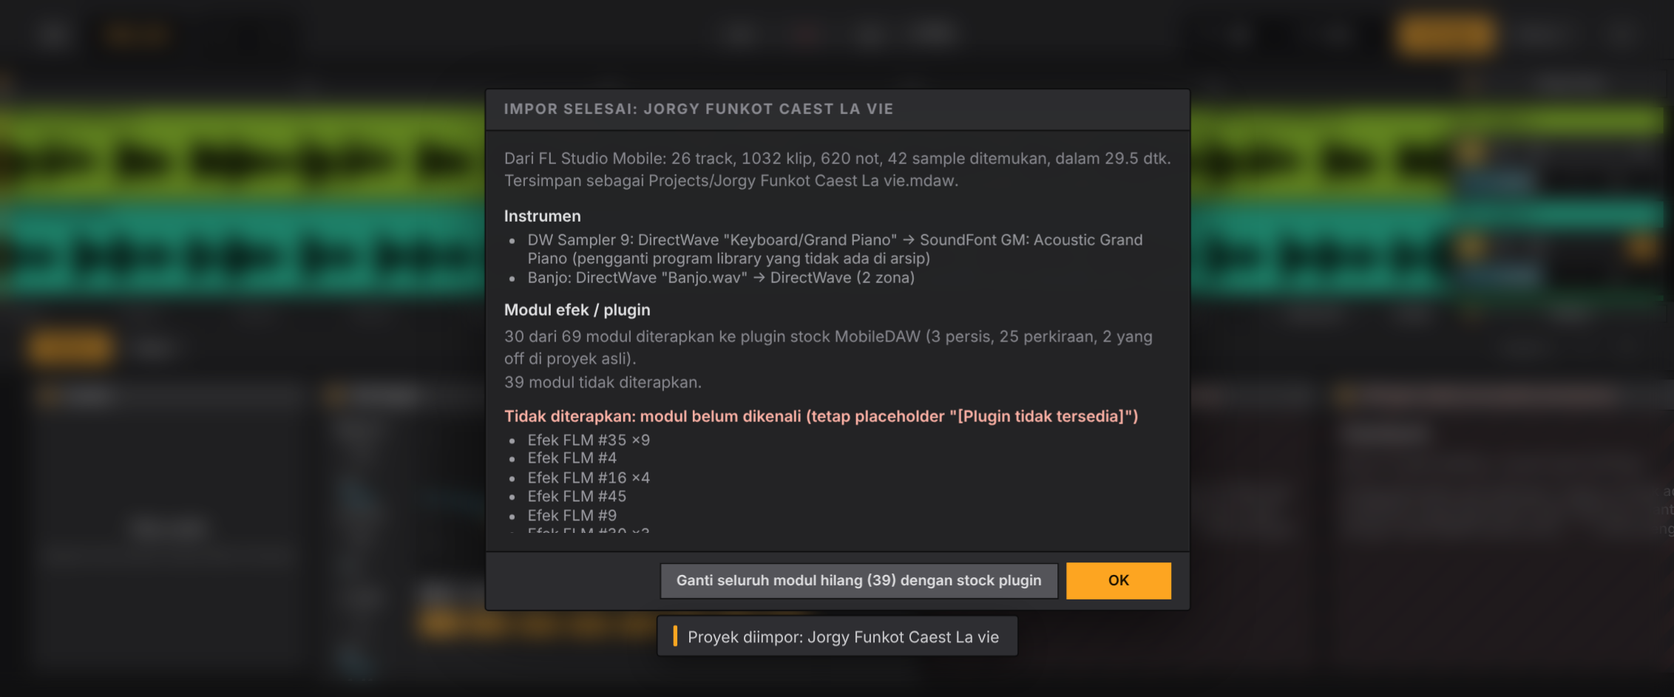
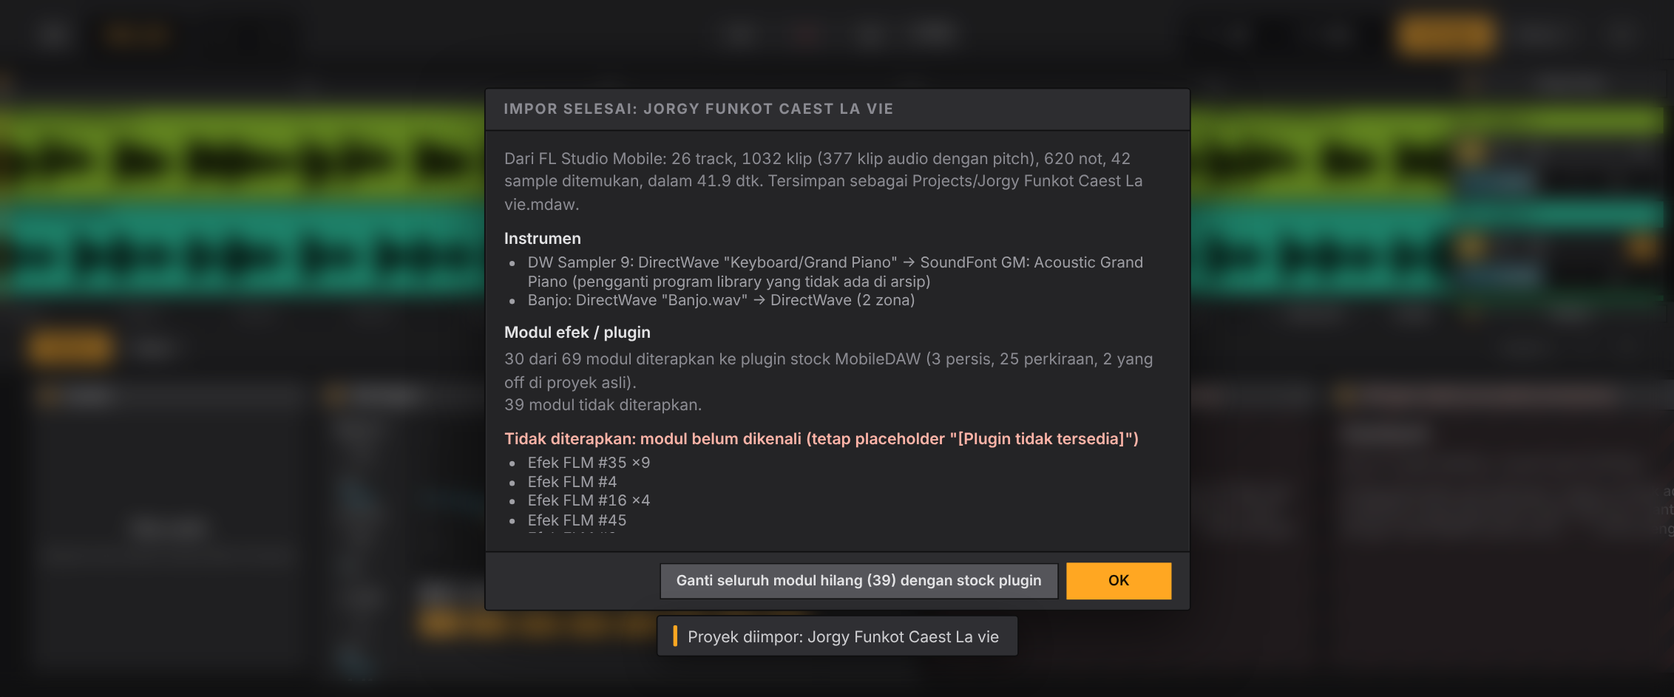
FLM import: clips never resized fill their cycle, audio clip pitch, pad pitch / envelope, module mix
- CLHd length 0 (duplicated / linked clips) = one cycle long: the 74 "BASS LOUD FUNKYTONE" clips of Audio 7
  in the owner's project now fill 2 bars each instead of almost nothing (82 such clips in the project).
- Audio clip pitch: STR1 semitones (= STRC pitch ratio / knob 0.5 + st/48) while stretching -> warp pitch;
  stretch off -> PRMS[2] pitch knob = resample (warp mode repitch). 377 pitched + 48 repitched clips.
- Drum pads: pitch with cents and the pad envelope (A / D / S / R).
- Module SMPR = pan / level (mix): Dry/Wet of the converted stock plugin, blended gain for Utility / EQ
  Eight; DirectWave layers get their level / pan per zone (new zone gain / pan in the FLM DirectWave engine,
  editable in the zone editor).
- FLM note / DirectWave root numbering is MIDI - 12 (Banjo.wav unity note 60 stored as 48, measured C4):
  roots and pattern notes +12.
- Tests: import-test (synthetic STR1 / repitch / length 0 / pads / mix), import-ui-test checks Audio 7
  and saves docs/redesign/56-import-flm-arrangement.png. Docs: IMPORT.md.

Claude-Session: https://claude.ai/code/session_016R99TjSh2G5U2VqVgMNHhT

Changed region(s): [[0.2783, 0.2153, 0.7111, 0.7688], [0.5256, 0.8918, 0.5875, 0.9226], [0.4329, 0.8918, 0.4947, 0.9226]]

diff --git a/js/import/flm.js b/js/import/flm.js
@@ -7,10 +7,16 @@
 //     TRKH (one per sub-track): DESc = i32 kind (0 notes, 1 automation, 2 audio, 3 drums), i32 module id, i32 param, ..., name[...] (+0x1c)
 //       CLIP = u32 position (128 ticks / beat) + "20LC" + CLHd (f64 length, f64 loop/cycle length, f64 offset, i32 id, f64 source length, u8 flags)
 //              EVN2 = u16 record size (20) + records: u32 time (128/beat), f64 length (beats), u16 pitch, u16 pan, u16 velocity, u16 flags
-//              CLSm (audio) = PTH1 (u16 len + "@L@\0" + path relative to the FLM user folder), STRC (u8, f64 stretch ratio, ...), PRMS (f32 gain, pan, ...)
+//              CLSm (audio) = PTH1 (u16 len + "@L@\0" + path relative to the FLM user folder), STRC (u8 stretch on, f64 time ratio, f64 pitch ratio,
+//              f32 pitch knob = 0.5 + semitones / 48, f32), STR1 (u8 on, f64 time ratio, f64 pitch in semitones), PRMS (f32 gain, pan, pitch knob used
+//              when stretching is off = resampled, ..., attack / decay / sustain / release at [6..9]). A clip with length 0 has never been resized:
+//              its length is its cycle length (FLM duplicates / linked clips, LINk).
+//           MODULE SMPR = f32 pan, level / mix (1 = full), f32. DirectWave ZONE root is stored 12 below MIDI (a WAV with unity note 60 -> 48), so are
+//              the note pitches of EVN2: both are shifted +12 (relative pitch unchanged; absolute pitch right for synths / General MIDI).
 //     RACK: RPRM (f32 volume, f32 pan 0..1, ...), RMOd modules in signal order (prefix i32 type, u32 instance id; HEAD, DESC names, PRST preset
 //           path, PRMS f32 params with [0] = enabled, CSTM: ZONE / PATh = DirectWave sample), RSMP = Drums sampler: SMPl per pad (PTH1, PRMS)
 import { FLM_TYPES } from './fxmap.js';
+const NOTE_OFS = 12;                                                               // FLM note / root numbering = MIDI - 12
 const TD = typeof TextDecoder !== 'undefined' ? new TextDecoder('utf-8') : null;
 const isTag = (u, p) => { for (let k = 0; k < 4; k++) { const c = u[p + k]; if (!((c >= 48 && c <= 57) || (c >= 65 && c <= 90) || (c >= 97 && c <= 122) || c === 95)) return false; } return true; };
 
@@ -50,14 +56,15 @@ export function parseFlm(buf, onProgress) {
     const rp = one(ks, 'RPRM'); if (rp && rp.n >= 8) { out.vol = f32(rp.a); out.pan = f32(rp.a + 4); }
     for (const m of ks.filter((x) => x.tag === 'RMOd')) {
       const mk = kids(m), type = i32(m.a), id = u32(m.a + 4);
-      const prst = one(mk, 'PRST'), prms = one(mk, 'PRMS'), desc = one(mk, 'DESC'), cstm = one(mk, 'CSTM');
+      const prst = one(mk, 'PRST'), prms = one(mk, 'PRMS'), desc = one(mk, 'DESC'), cstm = one(mk, 'CSTM'), smpr = one(mk, 'SMPR');
       const pr = prst && prst.n > 8 ? str(prst.a + 4, Math.min(prst.n - 4, u32(prst.a))) : '';
       const params = []; if (prms) for (let k = 0; k + 4 <= prms.n; k += 4) params.push(f32(prms.a + k));
       const names = desc ? [str(desc.a, 256), str(desc.a + 0x100, 256)].filter(Boolean) : [];
       const folder = /Effect Presets\/([^/]+)\//.exec(pr); if (folder && !KNOWN[type]) presetName[type] = folder[1].replace(/\d+$/, '');
       const mod = { type, id, params, enabled: !(params.length && params[0] < 0.5), preset: pr.replace(/^.*\//, '').replace(/\.(flmpst|dwp)$/i, ''), presetPath: pr, names };
+      if (smpr && smpr.n >= 12) { mod.pan = f32(smpr.a) * 2 - 1; mod.level = f32(smpr.a + 4); }   // module pan / level (mix)
       if (cstm) for (const z of kids(cstm)) {                 // DirectWave: the sample of its zone (user folder) or a library program (built-in content)
-        if (z.tag === 'ZONE') { mod.sample = clean(raw(z.a, Math.min(z.n, 1024))); if (z.n > 1028) mod.root = u[z.a + 1024]; }   // path[1024], then the zone's root key (MIDI)
+        if (z.tag === 'ZONE') { mod.sample = clean(raw(z.a, Math.min(z.n, 1024))); if (z.n > 1028) mod.root = Math.min(127, u[z.a + 1024] + NOTE_OFS); }   // path[1024], then the zone's root key (MIDI)
         if (z.tag === 'PATh') mod.library = clean(raw(z.a + 4, Math.min(z.n - 4, u32(z.a))));
       }
       if (type === 1 && !mod.sample && !mod.library && names.length > 1 && /\.(wav|mp3|ogg|flac|m4a|aif+)$/i.test(names[names.length - 1])) mod.sample = names[names.length - 1];
@@ -75,6 +82,7 @@ export function parseFlm(buf, onProgress) {
     const pos = u32(c.a), ck = kids(c), h = one(ck, 'CLHd');
     if (!h || h.n < 36) return null;
     const clip = { pos: pos / 128, len: f64(h.a), cycle: f64(h.a + 8), offset: f64(h.a + 16), id: i32(h.a + 24), srcLen: f64(h.a + 28), muted: h.n > 36 && u[h.a + 36] === 1, events: [] };
+    if (!(clip.len > 0)) { clip.len = clip.cycle > 0 ? clip.cycle : clip.srcLen > 0 ? clip.srcLen : 4; clip.lenFromCycle = true; }   // never resized: one cycle long
     const e = one(ck, 'EVN2');
     if (e && e.n >= 2) { const rs = u16(e.a); if (rs >= 20) for (let p = e.a + 2; p + rs <= e.a + e.n; p += rs) clip.events.push({ t: u32(p) / 128, len: f64(p + 4), pitch: u16(p + 12), pan: u16(p + 14), vel: u16(p + 16), flags: u16(p + 18) }); }
     const sm = one(ck, 'CLSm');
@@ -82,8 +90,10 @@ export function parseFlm(buf, onProgress) {
       const sk = kids(sm), stc = one(sk, 'STRC'), pm = one(sk, 'PRMS'), main = one(sk, 'MAIN');
       clip.sample = path1(one(sk, 'PTH1'));
       clip.name = main ? str(main.a + 12, 256) : '';
-      if (stc && stc.n >= 9) { clip.stretchOn = u[stc.a] === 1; clip.stretch = f64(stc.a + 1); }
-      if (pm && pm.n >= 8) { clip.gain = f32(pm.a); clip.pan = f32(pm.a + 4); clip.params = []; for (let k = 0; k + 4 <= pm.n; k += 4) clip.params.push(f32(pm.a + k)); }
+      const s1 = one(sk, 'STR1');
+      if (stc && stc.n >= 9) { clip.stretchOn = u[stc.a] === 1; clip.stretch = f64(stc.a + 1); if (stc.n >= 17 && clip.stretchOn) clip.pitch = 12 * Math.log2(Math.max(1e-6, f64(stc.a + 9))); }
+      if (s1 && s1.n >= 17 && u[s1.a] === 1) clip.pitch = f64(s1.a + 9);              // semitones while stretching (time and pitch independent)
+      if (pm && pm.n >= 8) { clip.gain = f32(pm.a); clip.pan = f32(pm.a + 4); clip.params = []; for (let k = 0; k + 4 <= pm.n; k += 4) clip.params.push(f32(pm.a + k)); if (!clip.stretchOn && pm.n >= 12) clip.repitch = (f32(pm.a + 8) - 0.5) * 48; }   // stretch off: the pitch knob resamples
     }
     return clip;
   };
@@ -131,13 +141,13 @@ export function flmToModel(P) {
     const dw = ch.modules.filter((m) => m.type === 1), syn = dw.length ? null : ch.modules.find((m) => synthOf(m));
     const instMods = new Set(dw.length ? dw : syn ? [syn] : []);
     const c = { kind: ch.kind, name: ch.name, hue: hue(ch.hue), gain: ch.vol / LVL0, pan: ch.pan * 2 - 1, tracks: [], pads: [],
-      modules: ch.modules.filter((m) => !instMods.has(m)).map((m) => ({ name: m.name, enabled: m.enabled, preset: m.preset && m.preset !== 'Default' ? m.preset : '', params: m.params, id: m.id, flmType: m.type, ...(FLM_TYPES[m.type] && FLM_TYPES[m.type].sure === false ? { sure: false } : {}), app: 'FL Studio Mobile' })) };
+      modules: ch.modules.filter((m) => !instMods.has(m)).map((m) => ({ name: m.name, enabled: m.enabled, ...(m.level != null && m.level < 0.999 ? { mix: m.level } : {}), preset: m.preset && m.preset !== 'Default' ? m.preset : '', params: m.params, id: m.id, flmType: m.type, ...(FLM_TYPES[m.type] && FLM_TYPES[m.type].sure === false ? { sure: false } : {}), app: 'FL Studio Mobile' })) };
     if (dw.length) {
       const lib = dw.find((m) => m.library);
-      c.instrument = { kind: 'directwave', name: 'DirectWave', layers: dw.filter((m) => m.enabled && m.sample).map((m) => ({ sample: m.sample, root: m.root ?? 60, params: m.params })), library: lib ? lib.library : '', preset: dw[0].preset, enabled: dw.some((m) => m.enabled) };
-      if (!c.instrument.layers.length && !c.instrument.library && dw[0].sample) c.instrument.layers.push({ sample: dw[0].sample, root: dw[0].root ?? 60 });
+      c.instrument = { kind: 'directwave', name: 'DirectWave', layers: dw.filter((m) => m.enabled && m.sample).map((m) => ({ sample: m.sample, root: m.root ?? 60, params: m.params, level: m.level ?? 1, pan: m.pan || 0 })), library: lib ? lib.library : '', preset: dw[0].preset, enabled: dw.some((m) => m.enabled) };
+      if (!c.instrument.layers.length && !c.instrument.library && dw[0].sample) c.instrument.layers.push({ sample: dw[0].sample, root: dw[0].root ?? 60, params: dw[0].params, level: dw[0].level ?? 1, pan: dw[0].pan || 0 });
     } else if (syn) { const k = synthOf(syn); c.instrument = { kind: k.kind, name: k.name, preset: syn.preset && syn.preset !== 'Default' ? syn.preset : '', params: syn.params, enabled: syn.enabled, flmType: syn.type }; }
-    c.pads = ch.pads.map((q, k) => ({ path: q.path, name: (q.path.split('/').pop() || 'Pad ' + (k + 1)).replace(/\.[^.]+$/, ''), gain: q.vol / LVL0, pan: q.pan * 2 - 1, pitch: Math.round((q.pitch - 0.5) * 48) }));
+    c.pads = ch.pads.map((q, k) => ({ path: q.path, name: (q.path.split('/').pop() || 'Pad ' + (k + 1)).replace(/\.[^.]+$/, ''), gain: q.vol / LVL0, pan: q.pan * 2 - 1, pitch: Math.round((q.pitch - 0.5) * 48 * 1000) / 1000, env: q.params.length >= 10 ? { a: q.params[6], d: q.params[7], s: q.params[8], r: q.params[9] } : null }));   // pitch 0.5 + st / 48 (cents kept)
     for (const t of ch.tracks) {
       if (!t.clips.length && t.kind === 'automation') continue;               // empty automation slots
       const tr = { kind: t.kind, label: t.label, clips: [] };
@@ -147,9 +157,9 @@ export function flmToModel(P) {
       }
       for (const x of t.clips) {
         const cl = { pos: x.pos, len: x.len, cycle: x.cycle, offset: x.offset, srcLen: x.srcLen, muted: x.muted };
-        if (t.kind === 'audio') Object.assign(cl, { sample: x.sample, name: x.name, stretch: x.stretchOn !== false && x.stretch > 0.01 ? x.stretch : 1, gain: (x.gain ?? LVL0) / LVL0, pan: x.pan != null ? x.pan * 2 - 1 : 0 });
+        if (t.kind === 'audio') Object.assign(cl, { sample: x.sample, name: x.name, pitch: x.pitch || 0, repitch: x.repitch || 0, stretch: x.stretchOn !== false && x.stretch > 0.01 ? x.stretch : 1, gain: (x.gain ?? LVL0) / LVL0, pan: x.pan != null ? x.pan * 2 - 1 : 0 });
         else if (t.kind === 'automation') cl.points = x.events.map((e) => ({ t: e.t, v: e.vel / 65535 }));
-        else cl.notes = x.events.map((e) => ({ t: e.t, len: Math.max(1 / 64, e.len || 0.25), pitch: e.pitch, vel: Math.max(0.05, Math.min(1, e.vel / 32767 * 0.8)), pan: Math.max(-1, Math.min(1, e.pan / 32767.5 - 1)) }));
+        else cl.notes = x.events.map((e) => ({ t: e.t, len: Math.max(1 / 64, e.len || 0.25), pitch: t.kind === 'notes' ? Math.min(127, e.pitch + NOTE_OFS) : e.pitch, vel: Math.max(0.05, Math.min(1, e.vel / 32767 * 0.8)), pan: Math.max(-1, Math.min(1, e.pan / 32767.5 - 1)) }));
         tr.clips.push(cl);
       }
       c.tracks.push(tr);

diff --git a/js/import/build.js b/js/import/build.js
@@ -15,7 +15,7 @@ const SYNTH_TYPE = { gms: 31, minisynth: 32, supersaw: 33 };   // the FL Studio 
 // FLM DirectWave module parameters (normalised 0..1, [0] = on) -> MDAW DirectWave (30). Only the groups whose layout is confirmed by the
 // owner's screenshots against the stored values (bipolar amounts at 0.5 = 0) are converted: filter envelope [17..21], frequency envelope
 // [22..26], LFO [27..32]. The Sample / Filter tab values ([1..16]) are kept raw in inst.from (their order is not known yet).
-const fT = (v) => 0.001 * Math.pow(10000, clamp(v, 0, 1));                  // 0..1 slider -> 1 ms .. 10 s (MDAW curve)
+const fT = (v) => Math.round((0.001 + 10 * Math.pow(clamp(v, 0, 1), 3)) * 1e4) / 1e4;   // FLM 0..1 envelope slider -> seconds (1 ms .. 10 s, cubic; FLM shows no times)
 export function dwParamsFromFlm(raw) {
   const r = raw || [], out = {};
   if (r.length < 33) return out;
@@ -57,7 +57,7 @@ export function buildMdaw(M, opts) {
     }
     return files.get(key);
   };
-  const zoneOf = (smp, root) => ({ sample: smp, root: clamp(Math.round(root ?? 60), 0, 127), lo: 0, hi: 127, vlo: 1, vhi: 127, tune: 0, loop: false, sus: 0, s0: 0, s1: 1, l0: 0, l1: 1, xf: 0, rev: false, vol: 0, pan: 0 });
+  const zoneOf = (smp, root, L = {}) => ({ sample: smp, root: clamp(Math.round(root ?? 60), 0, 127), lo: 0, hi: 127, vlo: 1, vhi: 127, tune: 0, loop: false, sus: 0, s0: 0, s1: 1, l0: 0, l1: 1, xf: 0, rev: false, vol: L.level != null && L.level < 0.999 ? Math.round(20 * Math.log10(Math.max(1e-4, L.level)) * 100) / 100 : 0, pan: clamp(L.pan || 0, -1, 1) });   // FLM module level / pan per layer
   report.instruments = [];
   const instrumentOf = (I, trackName) => {
     I = I || { kind: 'unknown', name: 'Instrumen' };
@@ -69,7 +69,7 @@ export function buildMdaw(M, opts) {
     }
     const layers = I.layers || (I.sample ? [{ sample: I.sample, root: 60 }] : []);
     const zones = [];
-    for (const L of layers) { const f = sample(L.sample); if (!f.missing) zones.push(zoneOf({ path: f.path, name: f.path.split('/').pop() }, L.root)); }
+    for (const L of layers) { const f = sample(L.sample); if (!f.missing) zones.push(zoneOf({ path: f.path, name: f.path.split('/').pop() }, L.root, L)); }
     if (zones.length) { note('DirectWave (' + zones.length + ' zona' + (zones.length < layers.length ? ', ' + (layers.length - zones.length) + ' sample hilang' : '') + ')', 'exact'); return { type: 30, params: dwParamsFromFlm((layers.find((L) => (L.params || []).length >= 33) || {}).params), pitch: 0, zones, from: { app: M.app, name: I.name, preset: I.preset || '', layers: layers.map((L) => ({ sample: L.sample, root: L.root, params: (L.params || []).map((v) => Math.round(v * 1e5) / 1e5) })) } }; }
     const gm = I.library ? gmFor(I.library) : null;
     if (gm) { needSf = true; note('SoundFont GM: ' + gm.name + ' (pengganti program library yang tidak ada di arsip)', 'substitute'); return { type: 6, params: { 0: 0.8 }, pitch: 0, sf: { path: GM_SF, preset: gm.program }, sub: { from: I.name, library: gm.label, gm: gm.name } }; }
@@ -78,11 +78,13 @@ export function buildMdaw(M, opts) {
     return { type: 30, params: {}, pitch: 0, zones: [zoneOf(null, 60)], missing: { name: I.name || 'Instrumen', library: I.library || I.preset || '', sample: layers[0] ? layers[0].sample : '' } };
   };
   let needSf = false;
+  // FLM pad envelope (0..1 sliders): applied when it shapes the sound (attack, sustain below full, release); full settings = play the sample through
+  const padEnv = (e) => { if (!e || (e.a < 0.005 && e.s > 0.995 && e.r > 0.995)) return { a: 0, d: 0, s: 1, r: 0 }; return { a: e.a < 0.005 ? 0 : fT(e.a), d: fT(e.d), s: clamp(Math.round(e.s * 1e4) / 1e4, 0, 1), r: e.r > 0.995 ? 0 : fT(e.r) }; };
   const vol = (g) => clamp((Number.isFinite(g) ? g : 1) * DEF_VOL, 0, VMAX);
   const util = DEVICES[0].params.map((q) => q.def);
   const placeholder = (m) => {
     report.plugins.set(m.name, (report.plugins.get(m.name) || 0) + 1);
-    return { id: uid(), type: 0, params: util.slice(), bypass: m.enabled === false, missing: { name: m.name, app: m.app || M.app, preset: m.preset || '', enabled: m.enabled !== false, ...(m.flmType != null ? { flmType: m.flmType } : {}), ...(m.sure === false ? { sure: false } : {}), params: (m.params || []).map((v) => Math.round(v * 1e5) / 1e5) } };
+    return { id: uid(), type: 0, params: util.slice(), bypass: m.enabled === false, missing: { name: m.name, app: m.app || M.app, preset: m.preset || '', enabled: m.enabled !== false, ...(m.flmType != null ? { flmType: m.flmType } : {}), ...(m.sure === false ? { sure: false } : {}), ...(m.mix != null ? { mix: m.mix } : {}), params: (m.params || []).map((v) => Math.round(v * 1e5) / 1e5) } };
   };
   const devices = (ch) => (ch.modules || []).slice(0, 16).map(placeholder);
   const notesOf = (cl, map) => (cl.notes || []).map((n) => ({ t: Math.max(0, T(n.t)), d: Math.max(1, T(n.len)), p: map ? map(n.pitch) : clamp(Math.round(n.pitch), 0, 127), v: clamp(n.vel ?? 0.8, 0.01, 1), ...(n.pan ? { pan: clamp(n.pan, -1, 1) } : {}) })).filter((n) => n.p >= 0 && n.p <= 127);
@@ -122,7 +124,7 @@ export function buildMdaw(M, opts) {
         t.kind = 'drum';
         const pads = (ch.pads || []).slice(0, MAX_PADS).map((q, k2) => {
           const f = q.path ? sample(q.path, q.name) : null;
-          return { pitch: 36 + k2, name: (q.name || 'Pad ' + (k2 + 1)).slice(0, 14), kind: -1, sample: f && !f.missing ? { path: f.path, name: f.path.split('/').pop() } : null, gain: clamp(20 * Math.log10(Math.max(1e-4, q.gain ?? 1)), -60, 12), pan: clamp(q.pan || 0, -1, 1), pit: clamp(q.pitch || 0, -24, 24), dec: 1, start: 0, end: 1, rev: false, a: 0, d: 0, s: 1, r: 0, mute: !!(f && f.missing), solo: false };
+          return { pitch: 36 + k2, name: (q.name || 'Pad ' + (k2 + 1)).slice(0, 14), kind: -1, sample: f && !f.missing ? { path: f.path, name: f.path.split('/').pop() } : null, gain: clamp(20 * Math.log10(Math.max(1e-4, q.gain ?? 1)), -60, 12), pan: clamp(q.pan || 0, -1, 1), pit: clamp(q.pitch || 0, -24, 24), dec: 1, start: 0, end: 1, rev: false, ...padEnv(q.env), mute: !!(f && f.missing), solo: false };
         });
         t.inst = { type: 3, params: {}, pads: pads.length ? pads : undefined };
         const map = pads.length ? (p) => (p >= 0 && p < pads.length ? pads[p].pitch : -1) : (p) => 36 + p;
@@ -132,7 +134,10 @@ export function buildMdaw(M, opts) {
           if (!cl.sample) continue;
           const f = sample(cl.sample, cl.name), ratio = cl.stretch > 0 ? cl.stretch : 1, nm = cl.name || (cl.sample.split('/').pop() || '').replace(/\.[^.]+$/, '');
           const c = { id: uid(), start: Math.max(0, T(cl.pos)), len: Math.max(1, T(cl.len)), sample: { path: f.path, name: f.path.split('/').pop() }, gain: clamp(cl.gain ?? 1, 0, 8), name: f.missing ? '⚠ ' + nm + ' (sample tidak ada)' : nm, offset: Math.max(0, (cl.offset || 0) * spb) };
-          if (!f.missing && Math.abs(ratio - 1) > 1e-4) c.warp = { beats: 0, ratio: Math.round(ratio * 1e5) / 1e5, rev: false, pitch: 0, bpm: out.bpm };
+          const st = Math.round((cl.pitch || 0) * 1000) / 1000, rp = Math.round((cl.repitch || 0) * 1000) / 1000;
+          if (!f.missing && rp) c.warp = { beats: 0, ratio: Math.round(Math.pow(2, -rp / 12) * 1e5) / 1e5, rev: false, pitch: 0, mode: 'repitch', bpm: out.bpm };   // stretch off: pitch by resampling (speed follows)
+          else if (!f.missing && (Math.abs(ratio - 1) > 1e-4 || st)) c.warp = { beats: 0, ratio: Math.round(ratio * 1e5) / 1e5, rev: false, pitch: st, bpm: out.bpm };   // stretch on: time and pitch independent
+          if (st || rp) report.pitched = (report.pitched || 0) + 1;
           const cyc = T(cl.cycle || 0); if (!f.missing && cyc > 0 && cyc < c.len - 1) c.ll = cyc;   // the loop repeats inside a longer clip
           if (cl.muted) c.muted = true;
           if (f.missing) c.missing = { sample: cl.sample };

diff --git a/js/engine/flmsyn.js b/js/engine/flmsyn.js
@@ -239,14 +239,15 @@ class Arp {
 const DW_ZONES = 16;
 export class FlmDirectWave extends Voices {
   constructor(sr, bank) {
-    super(sr, 32, () => ({ pos: 0, rate: 1, id: -1, zroot: 60, ztune: 0, zloop: false, fenv: new Adsr(), penv: new Adsr(), sl: new Svf(), sr2: new Svf(), fade: 0 }));
+    super(sr, 32, () => ({ pos: 0, rate: 1, id: -1, zroot: 60, ztune: 0, zloop: false, zg: 1, zp: 0, fenv: new Adsr(), penv: new Adsr(), sl: new Svf(), sr2: new Svf(), fade: 0 }));
     this.bank = bank; this.p = new Float64Array(40);
-    this.z = Array.from({ length: DW_ZONES }, () => ({ id: -1, root: 60, lo: 0, hi: 127, vlo: 1, vhi: 127, tune: 0, loop: false }));
+    this.z = Array.from({ length: DW_ZONES }, () => ({ id: -1, root: 60, lo: 0, hi: 127, vlo: 1, vhi: 127, tune: 0, loop: false, gain: 1, pan: 0 }));   // gain / pan: 300 + zone * 2 (FLM layer level / pan)
     this.ap = {}; this.fp = {}; this.qp = {};
     const D = [0, 0, 0.001, 1, 1, 0.3, 0.1, 2, 0, 0, 0, 0, 100, 0, 0, 0, 1, 0.001, 1, 1, 0.3, 0, 0.001, 1, 1, 0.3, 0, 0, 0.03, 9, 0, 0, 0, 0, 0];
     D.forEach((x, i) => this.setParam(i, x));
   }
   setParam(i, x) {
+    if (i >= 300) { const zi = (i - 300) >> 1; if (zi < DW_ZONES) { if ((i - 300) & 1) this.z[zi].pan = clamp(x, -1, 1); else this.z[zi].gain = dbg(clamp(x, -60, 12)); } return; }
     if (i >= 100) {
       const zi = Math.floor((i - 100) / 8), k = (i - 100) % 8; if (zi >= DW_ZONES) return; const q = this.z[zi];
       switch (k) { case 0: q.id = x | 0; break; case 1: q.root = clamp(x | 0, 0, 127); break; case 2: q.lo = clamp(x | 0, 0, 127); break; case 3: q.hi = clamp(x | 0, 0, 127); break; case 4: q.vlo = clamp(x | 0, 1, 127); break; case 5: q.vhi = clamp(x | 0, 1, 127); break; case 6: q.tune = clamp(x, -100, 100); break; case 7: q.loop = x > 0.5; break; }
@@ -271,7 +272,7 @@ export class FlmDirectWave extends Voices {
       const s = q.id >= 0 ? this.bank[q.id] : null;
       if (!s || p < q.lo || p > q.hi || vi < q.vlo || vi > q.vhi) continue;
       const v = this.mono ? this.v[0] : this.pick();
-      v.id = q.id; v.zroot = q.root; v.ztune = q.tune; v.zloop = q.loop;
+      v.id = q.id; v.zroot = q.root; v.ztune = q.tune; v.zloop = q.loop; v.zg = q.gain; v.zp = q.pan;
       if (this.mono) { super.noteOn(p, vel); return; }
       this.begin(v, p, vel, 0);
     }
@@ -298,7 +299,7 @@ export class FlmDirectWave extends Voices {
           const oct = (v.pitch - 60) / 12 * p[14] / 100 + (v.vel - 1) * 4 * p[15] / 100 + fe * p[21] / 100 * 6 + (ldest === 0 ? lf * 4 : 0);
           const f = cutHz(p[12]) * Math.pow(2, oct); v.sl.set(sr, f, res); v.sr2.a1 = v.sl.a1; v.sr2.a2 = v.sl.a2; v.sr2.a3 = v.sl.a3; v.sr2.k = v.sl.k;
         }
-        const amp = lvl * v.vel * (ldest === 2 ? Math.max(0, 1 + lf) : 1), pan = ldest === 3 ? clamp(lf, -1, 1) : 0, gl = amp * Math.min(1, 1 - pan), gr = amp * Math.min(1, 1 + pan);
+        const amp = lvl * v.vel * v.zg * (ldest === 2 ? Math.max(0, 1 + lf) : 1), pan = clamp((ldest === 3 ? lf : 0) + v.zp, -1, 1), gl = amp * Math.min(1, 1 - pan), gr = amp * Math.min(1, 1 + pan);
         for (let k = i; k < e2; k++) {
           const e = v.env.next(this.ap); v.fenv.next(this.fp); v.penv.next(this.qp);
           if (v.env.st === 0) { v.on = false; break; }

diff --git a/js/devices.js b/js/devices.js
@@ -52,7 +52,8 @@ function knobGrid(def, count) {
 function zoneEditor(i, k) {
   const t = state.tracks[i], z = t.inst.zones[k], multi = t.inst.type === INST.KEYSTONE || t.inst.type === INST.FLM_DW;
   const num = (v, lo, hi) => h('input', { type: 'number', value: v, min: lo, max: hi, step: 1, inputmode: 'numeric', style: 'width:70px;height:32px;margin-left:8px;background:var(--bg);border:1px solid var(--line);color:var(--text);border-radius:2px;padding:0 6px;user-select:text' });
-  const f = { root: num(z.root, 0, 127), lo: num(z.lo, 0, 127), hi: num(z.hi, 0, 127), vlo: num(z.vlo, 1, 127), vhi: num(z.vhi, 1, 127), tune: num(z.tune, -100, 100) };
+  const f = { root: num(z.root, 0, 127), lo: num(z.lo, 0, 127), hi: num(z.hi, 0, 127), vlo: num(z.vlo, 1, 127), vhi: num(z.vhi, 1, 127), tune: num(z.tune, -100, 100), vol: num(Math.round((z.vol || 0) * 10) / 10, -60, 12), pan: num(Math.round((z.pan || 0) * 100), -100, 100) };
+  const flm = t.inst.type === INST.FLM_DW; f.vol.step = 0.1;
   const loop = h('input', { type: 'checkbox', style: 'width:22px;height:22px;margin-left:8px' }); loop.checked = z.loop;
   const row = (label, el, hint) => h('label', { style: 'display:flex;align-items:center;padding:4px 0' }, h('span', { style: 'flex:1' }, label), el, h('span', { style: 'width:34px;color:var(--dim);font-size:11px;margin-left:6px' }, hint || ''));
   const hint = (el) => { const v = Math.round(+el.value); return Number.isFinite(v) ? noteName(Math.max(0, Math.min(127, v))) : ''; };
@@ -62,7 +63,7 @@ function zoneEditor(i, k) {
     row('Nada dasar (root)', f.root, hint(f.root)),
     multi ? row('Tuts terendah', f.lo, hint(f.lo)) : null, multi ? row('Tuts tertinggi', f.hi, hint(f.hi)) : null,
     multi ? row('Velocity min', f.vlo) : null, multi ? row('Velocity maks', f.vhi) : null,
-    row('Tune (cent)', f.tune), row('Loop sample', loop));
+    row('Tune (cent)', f.tune), flm ? row('Level lapisan (dB)', f.vol) : null, flm ? row('Pan lapisan', f.pan) : null, row('Loop sample', loop));
   const acts = [{ label: 'Batal' }];
   if (multi && t.inst.zones.length > 1) acts.push({ label: 'Hapus zona', fn: () => P.removeZone(i, k) });
   acts.push({ label: 'Simpan', go: true, fn: () => {
@@ -70,6 +71,7 @@ function zoneEditor(i, k) {
     P.setZoneField(i, k, 'root', n(f.root, 0, 127));
     if (multi) { const lo = n(f.lo, 0, 127), hi = n(f.hi, 0, 127); P.setZoneField(i, k, 'lo', Math.min(lo, hi)); P.setZoneField(i, k, 'hi', Math.max(lo, hi)); const a = n(f.vlo, 1, 127), b = n(f.vhi, 1, 127); P.setZoneField(i, k, 'vlo', Math.min(a, b)); P.setZoneField(i, k, 'vhi', Math.max(a, b)); }
     P.setZoneField(i, k, 'tune', n(f.tune, -100, 100));
+    if (flm) { P.setZoneField(i, k, 'vol', Math.max(-60, Math.min(12, Math.round((+f.vol.value || 0) * 10) / 10))); P.setZoneField(i, k, 'pan', n(f.pan, -100, 100) / 100); }
     P.setZoneField(i, k, 'loop', loop.checked);
   } });
   modal(multi ? `Zona ${k + 1}` : 'Sample DirectWave', body, acts);

diff --git a/sw.js b/sw.js
@@ -1,5 +1,5 @@
 // Offline cache. The cache name contains a hash of every file, so a new deploy replaces the old cache automatically.
-const CACHE = 'mobiledaw-1921f37bf354';
+const CACHE = 'mobiledaw-7de035cc5c0b';
 const ASSETS = ["./", "./css/app.css", "./css/ableton.css", "./css/float.css", "./css/live.css", "./icons/icon-192.png", "./icons/icon-512.png", "./icons/icon-maskable-512.png", "./index.html", "./js/about.js", "./js/aboutdata.js", "./js/audioedit.js", "./js/autocurve.js", "./js/automate.js", "./js/autosave.js", "./js/browser.js", "./js/chords.js", "./js/colorpick.js", "./js/defs.js", "./js/demos.js", "./js/devices.js", "./js/devviz.js", "./js/drumpad.js", "./js/edgeguard.js", "./js/editor.js", "./js/engine.js", "./js/engine/analog.js", "./js/engine/audioops.js", "./js/engine/cmdtext.js", "./js/engine/core.js", "./js/engine/dsp.js", "./js/engine/drift.js", "./js/engine/ds.js", "./js/engine/fx.js", "./js/engine/fx2.js", "./js/engine/fx3.js", "./js/engine/fx4.js", "./js/engine/fx5.js", "./js/engine/fx6.js", "./js/engine/fx7.js", "./js/engine/granulator.js", "./js/engine/impulse.js", "./js/engine/instruments.js", "./js/engine/live.js", "./js/engine/meld.js", "./js/engine/meter.js", "./js/engine/mp3.js", "./js/engine/mp3tables.js", "./js/engine/nativesink.js", "./js/engine/operator.js", "./js/engine/phys.js", "./js/engine/poli.js", "./js/engine/sabio.js", "./js/engine/sf2.js", "./js/engine/simpler.js", "./js/engine/flmsyn.js", "./js/engine/smf.js", "./js/engine/stretchworker.js", "./js/engine/tmap.js", "./js/engine/wav.js", "./js/engine/waveops.js", "./js/engine/web.js", "./js/engine/worklet.js", "./js/floatwin.js", "./js/fps.js", "./js/fxviz.js", "./js/fxkit.js", "./js/gesture.js", "./js/history.js", "./js/import/als.js", "./js/import/build.js", "./js/import/flm.js", "./js/import/flp.js", "./js/import/fxmap.js", "./js/import/gm.js", "./js/import/index.js", "./js/import/ui.js", "./js/keymap.js", "./js/keys.js", "./js/layout.js", "./js/liveinst.js", "./js/liveui.js", "./js/log.js", "./js/main.js", "./js/midi.js", "./js/midiio.js", "./js/minimeters.js", "./js/mmdraw.js", "./js/native.js", "./js/perf.js", "./js/mixer.js", "./js/prefs.js", "./js/presetlib.js", "./js/presets.js", "./js/project.js", "./js/projects.js", "./js/pwa.js", "./js/quicksave.js", "./js/reorder.js", "./js/safdir.js", "./js/settingsui.js", "./js/storage.js", "./js/tempo.js", "./js/theme.js", "./js/timeline.js", "./js/topbar.js", "./js/ui.js", "./js/uiscale.js", "./js/waveform.js", "./js/zip.js", "./manifest.json"];
 self.addEventListener('install', (e) => { e.waitUntil(caches.open(CACHE).then((c) => c.addAll(ASSETS)).then(() => self.skipWaiting())); });
 self.addEventListener('activate', (e) => {

diff --git a/js/import/fxmap.js b/js/import/fxmap.js
@@ -40,7 +40,21 @@ const near = (a, b, e = 0.004) => Math.abs(a - b) <= e;
 
 // m = device.missing (name, app, params, flmType?) -> decision
 //   { apply: true, type, params, bypass, how: 'exact' | 'approx' | 'off' | 'later', note } | { apply: false, why: 'none' | 'unknown' | 'layout', stock }
-export function decide(m, mode = 'map') {
+export function decide(m, mode = 'map') { return withMix(m, decide0(m, mode)); }
+// FLM module level / mix (SMPR, < 1 = part dry): the stock plugin's Dry/Wet / Mix, or for Utility / EQ Eight the equivalent blend of dry and
+// processed level (1 - mix + mix * gain; exact for Utility, per band for the EQ)
+function withMix(m, r) {
+  const mix = m.mix;
+  if (!r.apply || r.bypass || mix == null || !(mix < 0.999)) return r;
+  const ps = DEVICES[r.type].params, q = (r.params && r.params.length ? r.params : defaults(r.type)).slice(), pct = Math.round(mix * 100);
+  const blend = (db) => Math.round(20 * Math.log10(Math.max(1e-4, 1 - mix + mix * Math.pow(10, db / 20))) * 100) / 100;
+  const k = ps.findIndex((x) => /^(Dry\/Wet|Mix)$/.test(x.n));
+  if (k >= 0) { q[k] = (Number.isFinite(q[k]) ? q[k] : ps[k].def) * mix; return { ...r, params: q, note: r.note + `; mix modul ${pct} %` }; }
+  if (r.type === 0) { q[0] = blend(q[0] || 0); return { ...r, params: q, note: r.note + `; mix modul ${pct} % (gain gabungan)` }; }
+  if (r.type === 31) { for (let b = 0; b < 8; b++) q[b * 5 + 3] = blend(q[b * 5 + 3] || 0); return { ...r, params: q, how: r.how === 'exact' ? 'exact' : 'approx', note: r.note + `; mix modul ${pct} % (per band)` }; }
+  return { ...r, how: r.how === 'exact' ? 'approx' : r.how, note: r.note + `; mix modul ${pct} % tidak ada padanannya` };
+}
+function decide0(m, mode) {
   const nm = moduleName(m.name), stock = Object.prototype.hasOwnProperty.call(STOCK, nm) ? STOCK[nm] : undefined, p = m.params || [];
   const on = !(p.length && p[0] < 0.5) && m.enabled !== false;
   if (stock === undefined) return { apply: false, why: 'unknown' };

diff --git a/js/project.js b/js/project.js
@@ -705,6 +705,7 @@ function sendZone(i, k) {
   for (const f of ['root', 'lo', 'hi', 'vlo', 'vhi', 'tune']) eng.instParam(i, zIdx(i, k, f), z[f]);
   if (big) for (const f of ['sus', 's0', 's1', 'l0', 'l1', 'xf', 'rev', 'vol', 'pan']) eng.instParam(i, zIdx(i, k, f), zNum(z[f] ?? newZone()[f]));
   else eng.instParam(i, zIdx(i, k, 'loop'), z.loop ? 1 : 0);
+  if (state.tracks[i].inst.type === INST.FLM_DW) { eng.instParam(i, 300 + k * 2, z.vol || 0); eng.instParam(i, 301 + k * 2, z.pan || 0); }   // FLM DirectWave: layer level (dB) / pan
 }
 export function syncZones(i) {
   const t = state.tracks[i];
@@ -735,7 +736,8 @@ export function setZoneField(i, k, field, v, quiet) {
   const z = state.tracks[i].inst.zones[k];
   if (HK.on && z[field] !== v && !HK.hit('zn' + state.tracks[i].id + '.' + k + field)) HK.add({ t: 'val', k: 'zone', s: state.tracks[i].id, d: k, p: field, v: z[field] });
   z[field] = v;
-  eng.instParam(i, zIdx(i, k, field), zNum(v));
+  if (state.tracks[i].inst.type === INST.FLM_DW && (field === 'vol' || field === 'pan')) eng.instParam(i, 300 + k * 2 + (field === 'pan' ? 1 : 0), v);   // FLM DirectWave layer level / pan
+  else eng.instParam(i, zIdx(i, k, field), zNum(v));
   if (!quiet) emit('devices');
 }
 export async function setZoneSample(i, k, path) {

diff --git a/js/import/ui.js b/js/import/ui.js
@@ -96,7 +96,7 @@ function report(r, secs) {
   const R = r.report;
   const left = missingLeft();
   const body = h('div', { class: 'imp-rep' },
-    h('div', { class: 'sv' }, `Dari ${r.app}: ${R.tracks} track, ${R.clips} klip, ${R.notes} not, ${R.samplesFound} sample ditemukan, dalam ${secs.toFixed(1)} dtk. Tersimpan sebagai Projects/${r.name}.mdaw.`),
+    h('div', { class: 'sv' }, `Dari ${r.app}: ${R.tracks} track, ${R.clips} klip${R.pitched ? ` (${R.pitched} klip audio dengan pitch)` : ''}, ${R.notes} not, ${R.samplesFound} sample ditemukan, dalam ${secs.toFixed(1)} dtk. Tersimpan sebagai Projects/${r.name}.mdaw.`),
     sec('Instrumen', (R.instruments || []).map((x) => `${x.track}: ${x.from} \u2192 ${x.to}`)),
     ...fxSections(r.fx),
     sec('Sample tidak ada di arsip (klip / pad tetap ada, tanpa suara)', [...R.samplesMissing, ...r.missingOnOpen.filter((p) => !/\/_missing\//.test(p))], 'warn'),

diff --git a/docs/IMPORT.md b/docs/IMPORT.md
@@ -54,6 +54,21 @@ Format tidak terdokumentasi; struktur di bawah dibaca dan diverifikasi pada proy
   Tipe lain tampil sebagai **"Efek FLM #<id>"** (bukan tebakan). Tabel `KNOWN` di `flm.js` bisa dilengkapi begitu nama tipe lain
   diketahui (mis. dari screenshot rack FLM).
 - Level FLM (slider 0..1, bawaan 0,853) dipetakan relatif ke level bawaan MDAW. Velocity not 0x7FFF → 0,8.
+- **Klip yang tidak pernah di-resize** (duplikat / klip tertaut, chunk `LINk`) menyimpan panjang 0: panjangnya = panjang siklus (dulu
+  terbaca hampir nol, contoh arsip pemilik: 74 klip "BASS LOUD FUNKYTONE" di Audio 7 hanya muncul sebagian). 82 klip di arsip pemilik.
+- **Pitch klip audio**: stretch hidup → `STR1` (u8 on, f64 rasio waktu, f64 **semitone**), sama dengan `STRC` (f64 rasio pitch =
+  2^(st/12), f32 knob = 0,5 + st/48); diterapkan sebagai warp pitch (waktu tetap). Stretch mati → knob pitch di `PRMS[2]` (0,5 + st/48)
+  = resample (kecepatan ikut berubah) → warp mode `repitch`. Arsip pemilik: 377 klip dengan pitch + 48 klip repitch (96_Tom −4,16 st).
+- **Pad drum**: pitch dengan cent (`PRMS[2]` = 0,5 + st/48, mis. kick +1,85 st) dan envelope A / D / S / R (`PRMS[6..9]`, kurva waktu
+  kubik 1 ms–10 s, perkiraan — FLM tidak menampilkan angka).
+- **Modul**: `SMPR` = pan, level / mix (1 = penuh). Pada efek yang dikonversi: Dry/Wet stock plugin, atau campuran dry + olahan untuk
+  Utility / EQ Eight; pada lapisan DirectWave: level (dB) dan pan per zona.
+- **Penomoran nada**: root zona DirectWave FLM tersimpan 12 di bawah MIDI (Banjo.wav ber-unity 60 di chunk `smpl` / `acid`, FLM
+  menyimpan 48; nada dasarnya terukur C4 = 261 Hz). Root dan not pattern digeser +12 → nada relatif sampler tetap, nada absolut benar untuk
+  synth / SoundFont. Kesimpulan dari satu sample; dikonfirmasi lebih lanjut bila ada proyek FLM dengan synth.
+- Belum terbaca: urutan nilai tab Sample / Filter DirectWave di `PRMS[1..16]` (disimpan mentah; mis. lapisan Banjo berbeda di `PRMS[3]`
+  0,236 vs 0,5 — kemungkinan Fine Tune −53 ct, belum terbukti), chunk `KEYB` (pengaturan akor keyboard FLM, JSON), `META` (tanggal).
+  `SEND` dibaca: semua kanal arsip pemilik ke Master dengan level bawaan.
 
 ## Migrasi modul ke stock plugin MobileDAW (`js/import/fxmap.js`)
 Sumber nama / parameter modul: panduan FX FL Studio Mobile dari pemilik (30 modul) + data di proyek asli.
